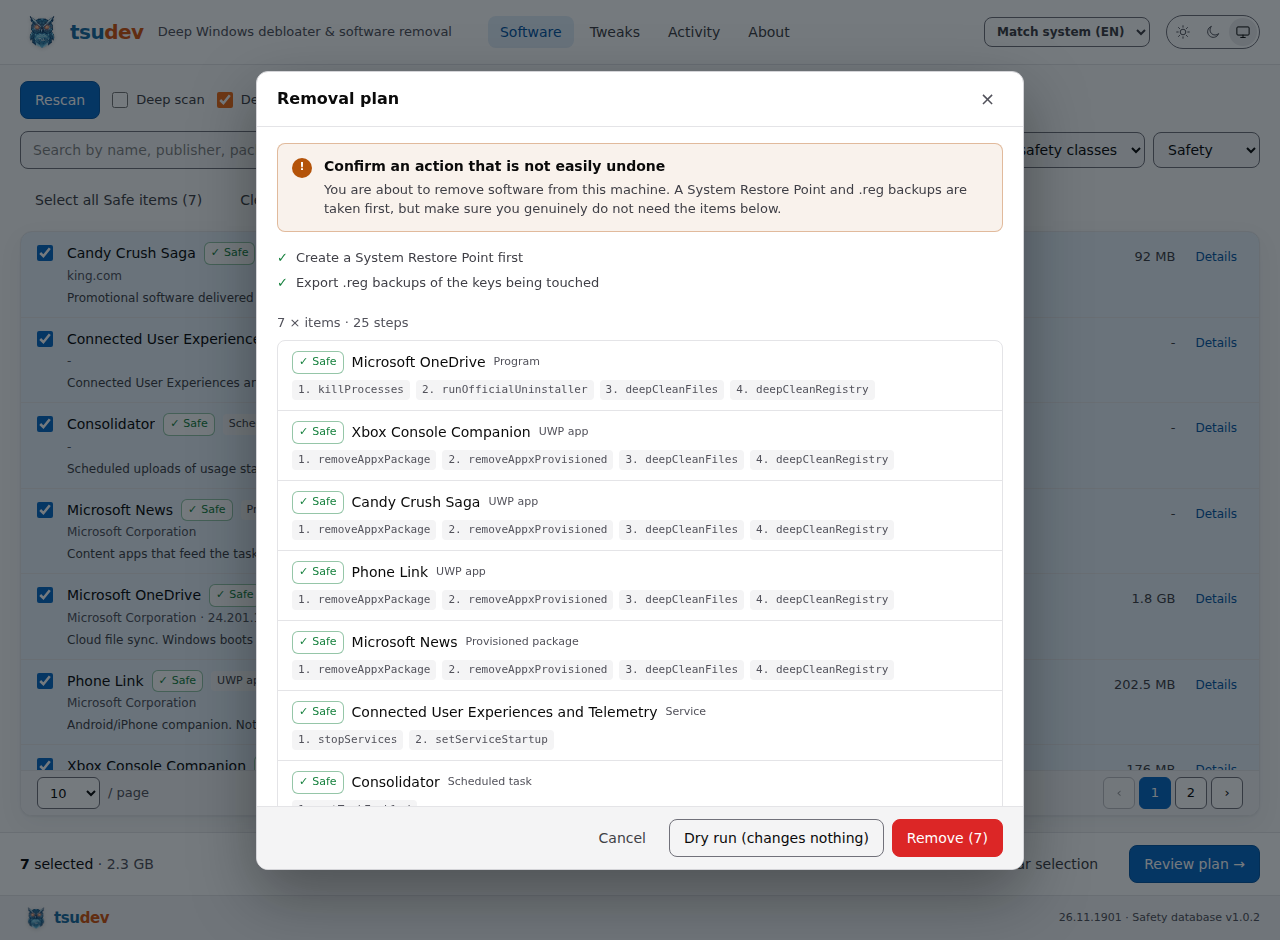
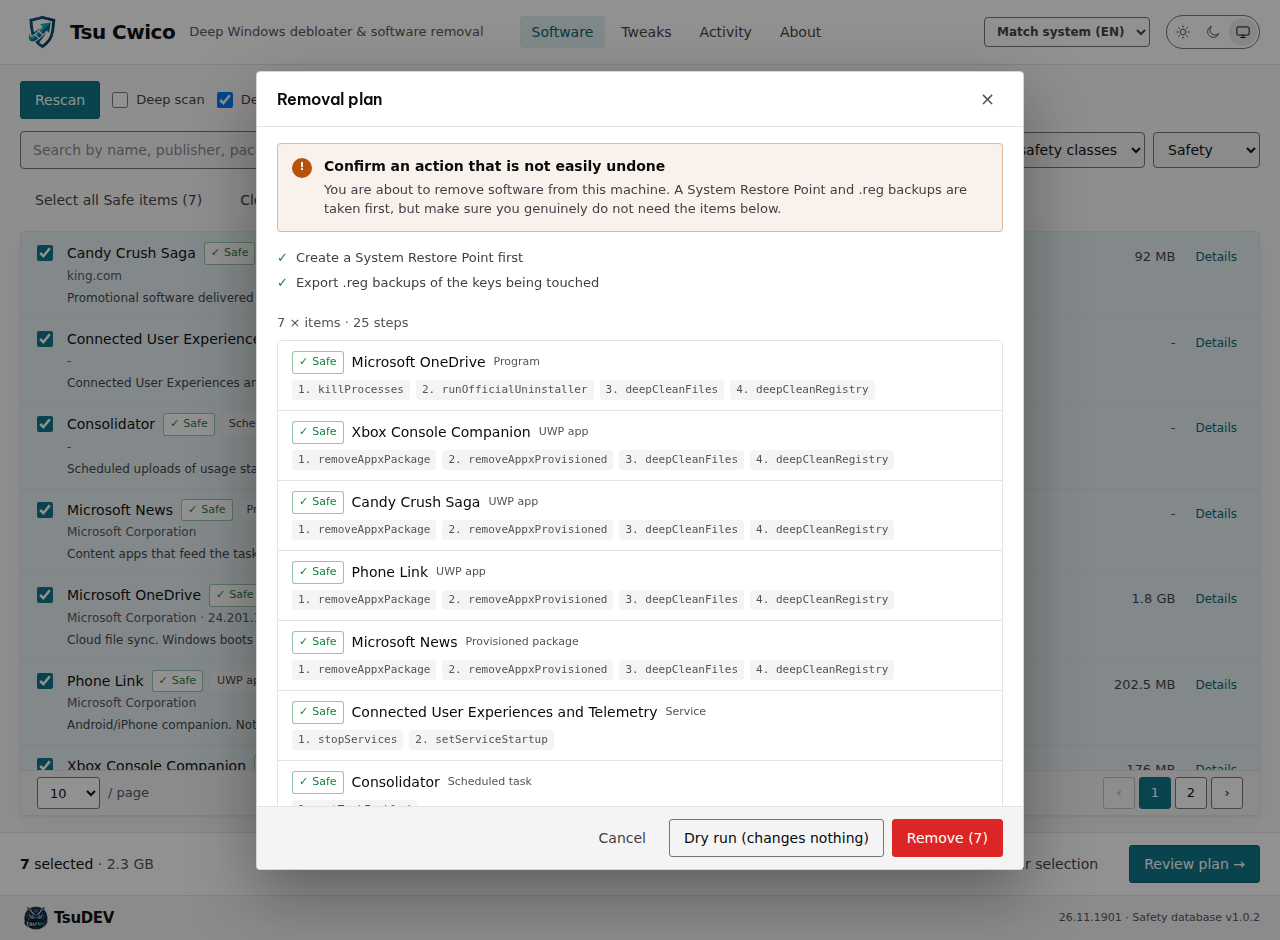
chore(logs): kết phiên tsucwico-ea - gộp #102-#105, chụp lại ảnh, deploy website, VT1 đọc lại 3/74 (#106)

diff --git a/logs/STATE.md b/logs/STATE.md
@@ -1,10 +1,10 @@
 # STATE.md - Trạng thái project
 
-> **Phiên kế tiếp:** việc đầu tiên là **PRO1 P2** (đăng nhập TsuDEV loopback PKCE + JWS quyền lợi + màn Pro) - hết bị
-> chặn 20/11; điểm bắt đầu + hợp đồng máy chủ đã đo ở phiếu `logs/handover/20261119-PRO1_*` **mục 6**, phạm vi ở
-> ADR-0002 mục 3. **REL-TSU-1** (phiếu `20261120-SB1`): 👤 hẹn làm SAU 21/11/2026 (bật Windows Sandbox cần restart
-> máy) ⇒ phiên trước ngày đó chỉ đọc lại VirusTotal (VT1 mục 4), KHÔNG nhắc 👤 restart; có `ketqua/` thì làm SB1 mục
-> 3.2. Còn **P2 MSIX** - chờ 👤 Partner Center.
+> **Phiên kế tiếp:** (1) **REL-TSU-1** - 👤 hẹn SAU 21/11/2026 (Windows Sandbox cần restart): có `tools/sandbox/ketqua/`
+> thì làm phiếu `20261120-SB1` mục 3.2, chưa có thì chỉ đọc lại VirusTotal (VT1 mục 4). (2) Việc cần **Windows thật**:
+> PRO1 P2 bước 7 (đăng nhập đầu cuối + đo proxy 0 byte, `docs/THREAT_MODEL.md` mục 3-4), chụp lại ảnh `scan-*-vi` +
+> `tweaks-dark-vi` + quay lại video demo (ảnh cũ còn logo tsudev - phiếu STD50) rồi ĐÓNG STD50. (3) **PRO1 P3** chờ
+> crate `tsusync` (PRO-D3). Còn **P2 MSIX** - chờ 👤 Partner Center.
 
 > Agent đọc file này ở đầu mỗi phiên và cập nhật ở cuối mỗi phiên.
 > Quy trình: `.standards/docs/AGENT_PROTOCOL.md`.
@@ -12,11 +12,18 @@
 ## Hàng đợi task (làm từ trên xuống)
 
 - [ ] **REL-TSU-1** Bản đầu tiên mang tên Tsu Cwico + khuôn thẻ v3: **Release nháp [`v26.11.1901`](https://github.com/tsudev-org/tsucwico/releases/tag/v26.11.1901)** (19/11/2026, phiên tsucwico-ea, run 44531891240). Đã kiểm trên nháp: 10 tệp đúng khuôn (`tsucwico_26.11.1901_windows-x64-setup.exe`, `_windows-x64.msi`, `_windows-x64-cli.exe`, `_sbom.spdx.json`, `.sig`, `latest.json`, `SHA256SUMS.txt` + `.sig` + `.sigstore.json`); `sha256sum -c` 7/7; `tools/verify_update_signature.py` - bản đã cài chấp nhận 3 gói; `gh attestation verify` 4/4 (ký bởi `release.yml@refs/tags/v26.11.1901`); Sigstore `OK`; CLI có CompanyName TsuDEV / FileVersion 26.11.1901; `latest.json` cùng dạng URL với 26.11.10.2 (đã cập nhật thật được). **VirusTotal**: MSI + CLI 0/74; bộ cài NSIS 3/74 engine học máy (CrowdStrike, APEX, Trapmine) ⇒ báo nhầm theo phiếu `logs/handover/20261119-VT1_*` (SecureAge đã nộp; 👤 gửi 2 email soạn sẵn). **Còn 👤:** nâng cấp thật trên máy ảo Windows có snapshot từ 26.11.1002 (MSI và NSIS) - mỗi đường chỉ một mục "Tsu Cwico" trong Add/Remove Programs (ADR-0001 mục 3, `docs/RELEASING.md` mục 5) ⇒ **Publish** (updater bắt buộc: Publish là đẩy tới mọi máy). **20/11: thử nâng cấp chuyển sang Windows Sandbox, bộ kiểm `tools/sandbox/` - phiếu `20261120-SB1`.** Sau Publish: deploy website (trang tải về đọc `releases/latest` lúc build), `tools/apply_winget_manifest.py` (manifest trong artifact `installers`) + nộp winget (đợi #476024), Scoop tự lên nhờ scoop-bucket#24.
+- [ ] **STD50** Bản sắc v5.0.0: **PR 1 ✅** #104 (sync v5.0.0, `products.css`, màu hue 212, bo góc `sac`, Be Vietnam Pro,
+  xoá dải tsu/dev - TS-8), **PR 2 ✅** #105 (`trinh-dien` + `luoi-quet`, og-image). Còn: ảnh chụp trên Windows thật
+  (`scan-*-vi`, `tweaks-dark-vi`) + video demo quay lại ⇒ đóng phiếu `20261121-STD50`.
+- [x] **LG1** ✅ 21/11/2026 #103: logo Tsu Cwico trong app (header, Giới thiệu, màn trống, cập nhật, lỗi, favicon trùng byte
+  website), khối nhà làm logo TsuDEV; trang "Đã đăng nhập" nhúng favicon. Phiếu `20261120-LG1` ĐÓNG.
+- [ ] **PRO2** Pro kỳ 1 năm: **2.1 ✅** #102 (nhắc gia hạn 7 ngày + báo hết kỳ, 6 test 7.6). 2.2 (đồng bộ qua TsuDEV Sync)
+  làm cùng PRO1 P3. Phiếu `20261120-PRO2`.
 - [ ] **PRO1** Lưu cục bộ mặc định; Pro = đồng bộ cài đặt (TsuDEV Sync, crate `tsusync`); nhắc nhiều thiết bị mỗi 30
   ngày. Phiếu `logs/handover/20261119-PRO1_luu-cuc-bo-pro-dong-bo.md`, kế hoạch phase ở **ADR-0002 mục 3**.
-  **P1 ✅** 20/11 (#94; kiểm kê 0 byte rời máy, chuẩn v3.9.1, `cwico_core::pro`, hộp thoại `ProNotice`). **P2 sẵn sàng** (20/11: client `tsucwico` native
-  loopback trên production - phiếu tsudev CW1 đóng, tsudev#339; `/pro` 200; tsudev#336 gộp 19/11). **P3** chờ
-  PRO-D3. Hợp đồng: PRODUCT_POLICY 7.4 bản v3.9.1 (KHÔNG theo mục 9.2 phiếu gốc - đã lỗi thời).
+  **P1 ✅** 20/11 (#94; kiểm kê 0 byte rời máy, chuẩn v3.9.1, `cwico_core::pro`, hộp thoại `ProNotice`). **P2 ✅ mã** 21/11 (#102: đăng nhập loopback PKCE, refresh token ở
+  Credential Manager, kiểm JWS ES256, màn Pro, huy hiệu, THREAT_MODEL) - còn bước 7 trên Windows thật (phiếu PRO1 mục 7).
+  **P3** chờ PRO-D3. Hợp đồng: PRODUCT_POLICY 7.4 bản v3.9.1 (KHÔNG theo mục 9.2 phiếu gốc - đã lỗi thời).
 - [ ] **P2-MSIX** Đích MSIX (`Version` = `YY.M.DDNN.0`) + nộp Microsoft Store + nút Store trên website. Chờ 👤 tạo tài
   khoản Partner Center cá nhân (phiếu P2 mục 4.1) - không đoán Identity Name/Publisher.
 - [x] **T8** ✅ 19/11/2026 (phiên tsucwico-c4): #92 gộp `20de2ab`, deploy Worker version `2fb094b0`; đo production: 1 video
@@ -39,6 +46,10 @@
 | --- | --- | --- |
 
 ## Đã hoàn thành (mới nhất trên cùng)
+
+- 21/11/2026 - Phiên tsucwico-ea (tiếp sau khi bị tắt): gộp #102 (PRO1 P2 + PRO2 2.1), #103 (LG1), #104 (STD50 PR 1,
+  chuẩn v5.0.0), #105 (STD50 PR 2); #106 chụp lại 5 ảnh `docs/screenshots` không cần Windows; deploy website (Worker version `babc50d9`, đo production: `data-product="cwico"`, hero `luoi-quet`, og-image 200). VirusTotal NSIS đọc lại
+  16:04 UTC: vẫn 3/74 (lượt 20/11 00:39, CrowdStrike/APEX/Trapmine), gửi `analyse` lại (200). Release vẫn nháp.
 
 - 20/11/2026 - Phiên tsucwico-e7: #94 (PRO1 P1) đỏ do README ghi 143 test (thực tế 154) ⇒ sửa, CI xanh, gộp squash.
   Release vẫn nháp ⇒ bỏ qua deploy/winget; VirusTotal NSIS đọc lại 00:39 UTC vẫn 3/71 (lượt 19/11 14:04), gửi

diff --git a/logs/handover/20261119-VT1_bao-nham-virustotal-26111901.md b/logs/handover/20261119-VT1_bao-nham-virustotal-26111901.md
@@ -47,3 +47,5 @@ Bản NSIS 26.11.1002 chưa từng lên VirusTotal nên không so được.
 - 20/11/2026 - phiên tsucwico-e7: đọc 00:39 UTC - lượt mới nhất vẫn 19/11 14:04:41, NSIS **3/71** cùng 3 engine
   (CrowdStrike, Trapmine, APEX). Gửi `POST /analyse` (200) lúc 00:40 UTC; đọc lại 00:51 lượt mới chưa chạy xong.
   Release vẫn nháp. Phiên sau đọc lại.
+- 21/11/2026 - phiên tsucwico-ea: đọc 16:04 UTC - lượt mới nhất vẫn 20/11 00:39, NSIS **3/74** cùng 3 engine
+  (CrowdStrike, APEX, Trapmine). Gửi `POST /analyse` (200) lúc 16:04 UTC. Release vẫn nháp.
